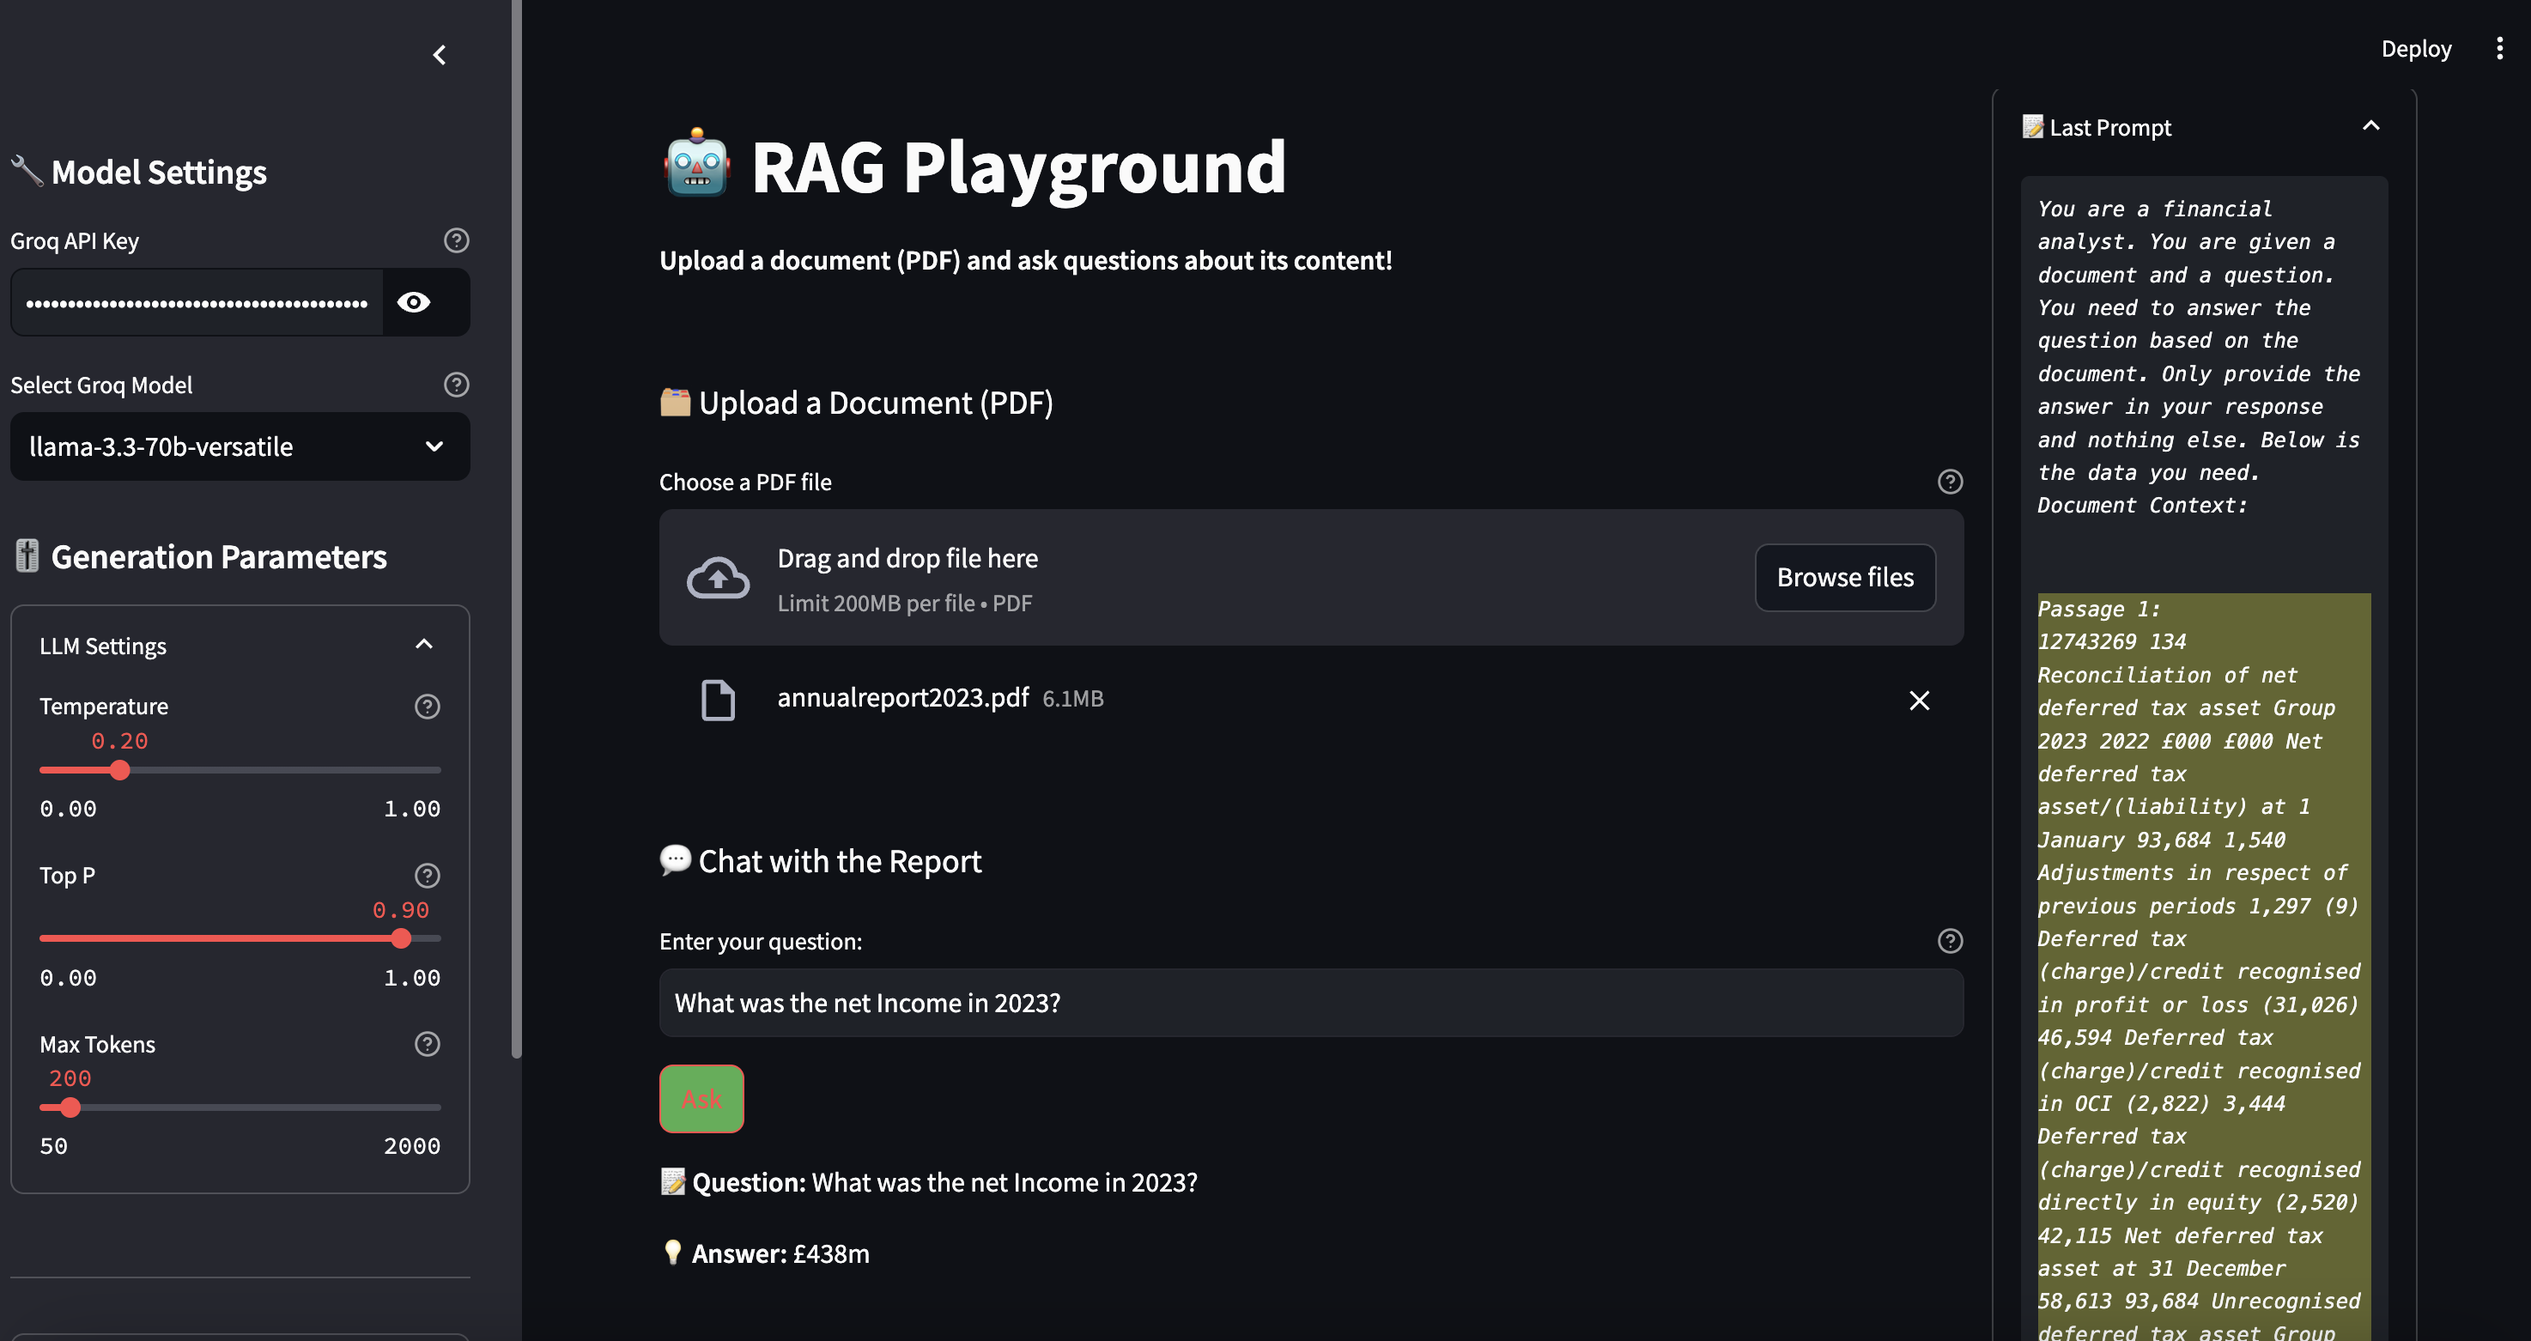
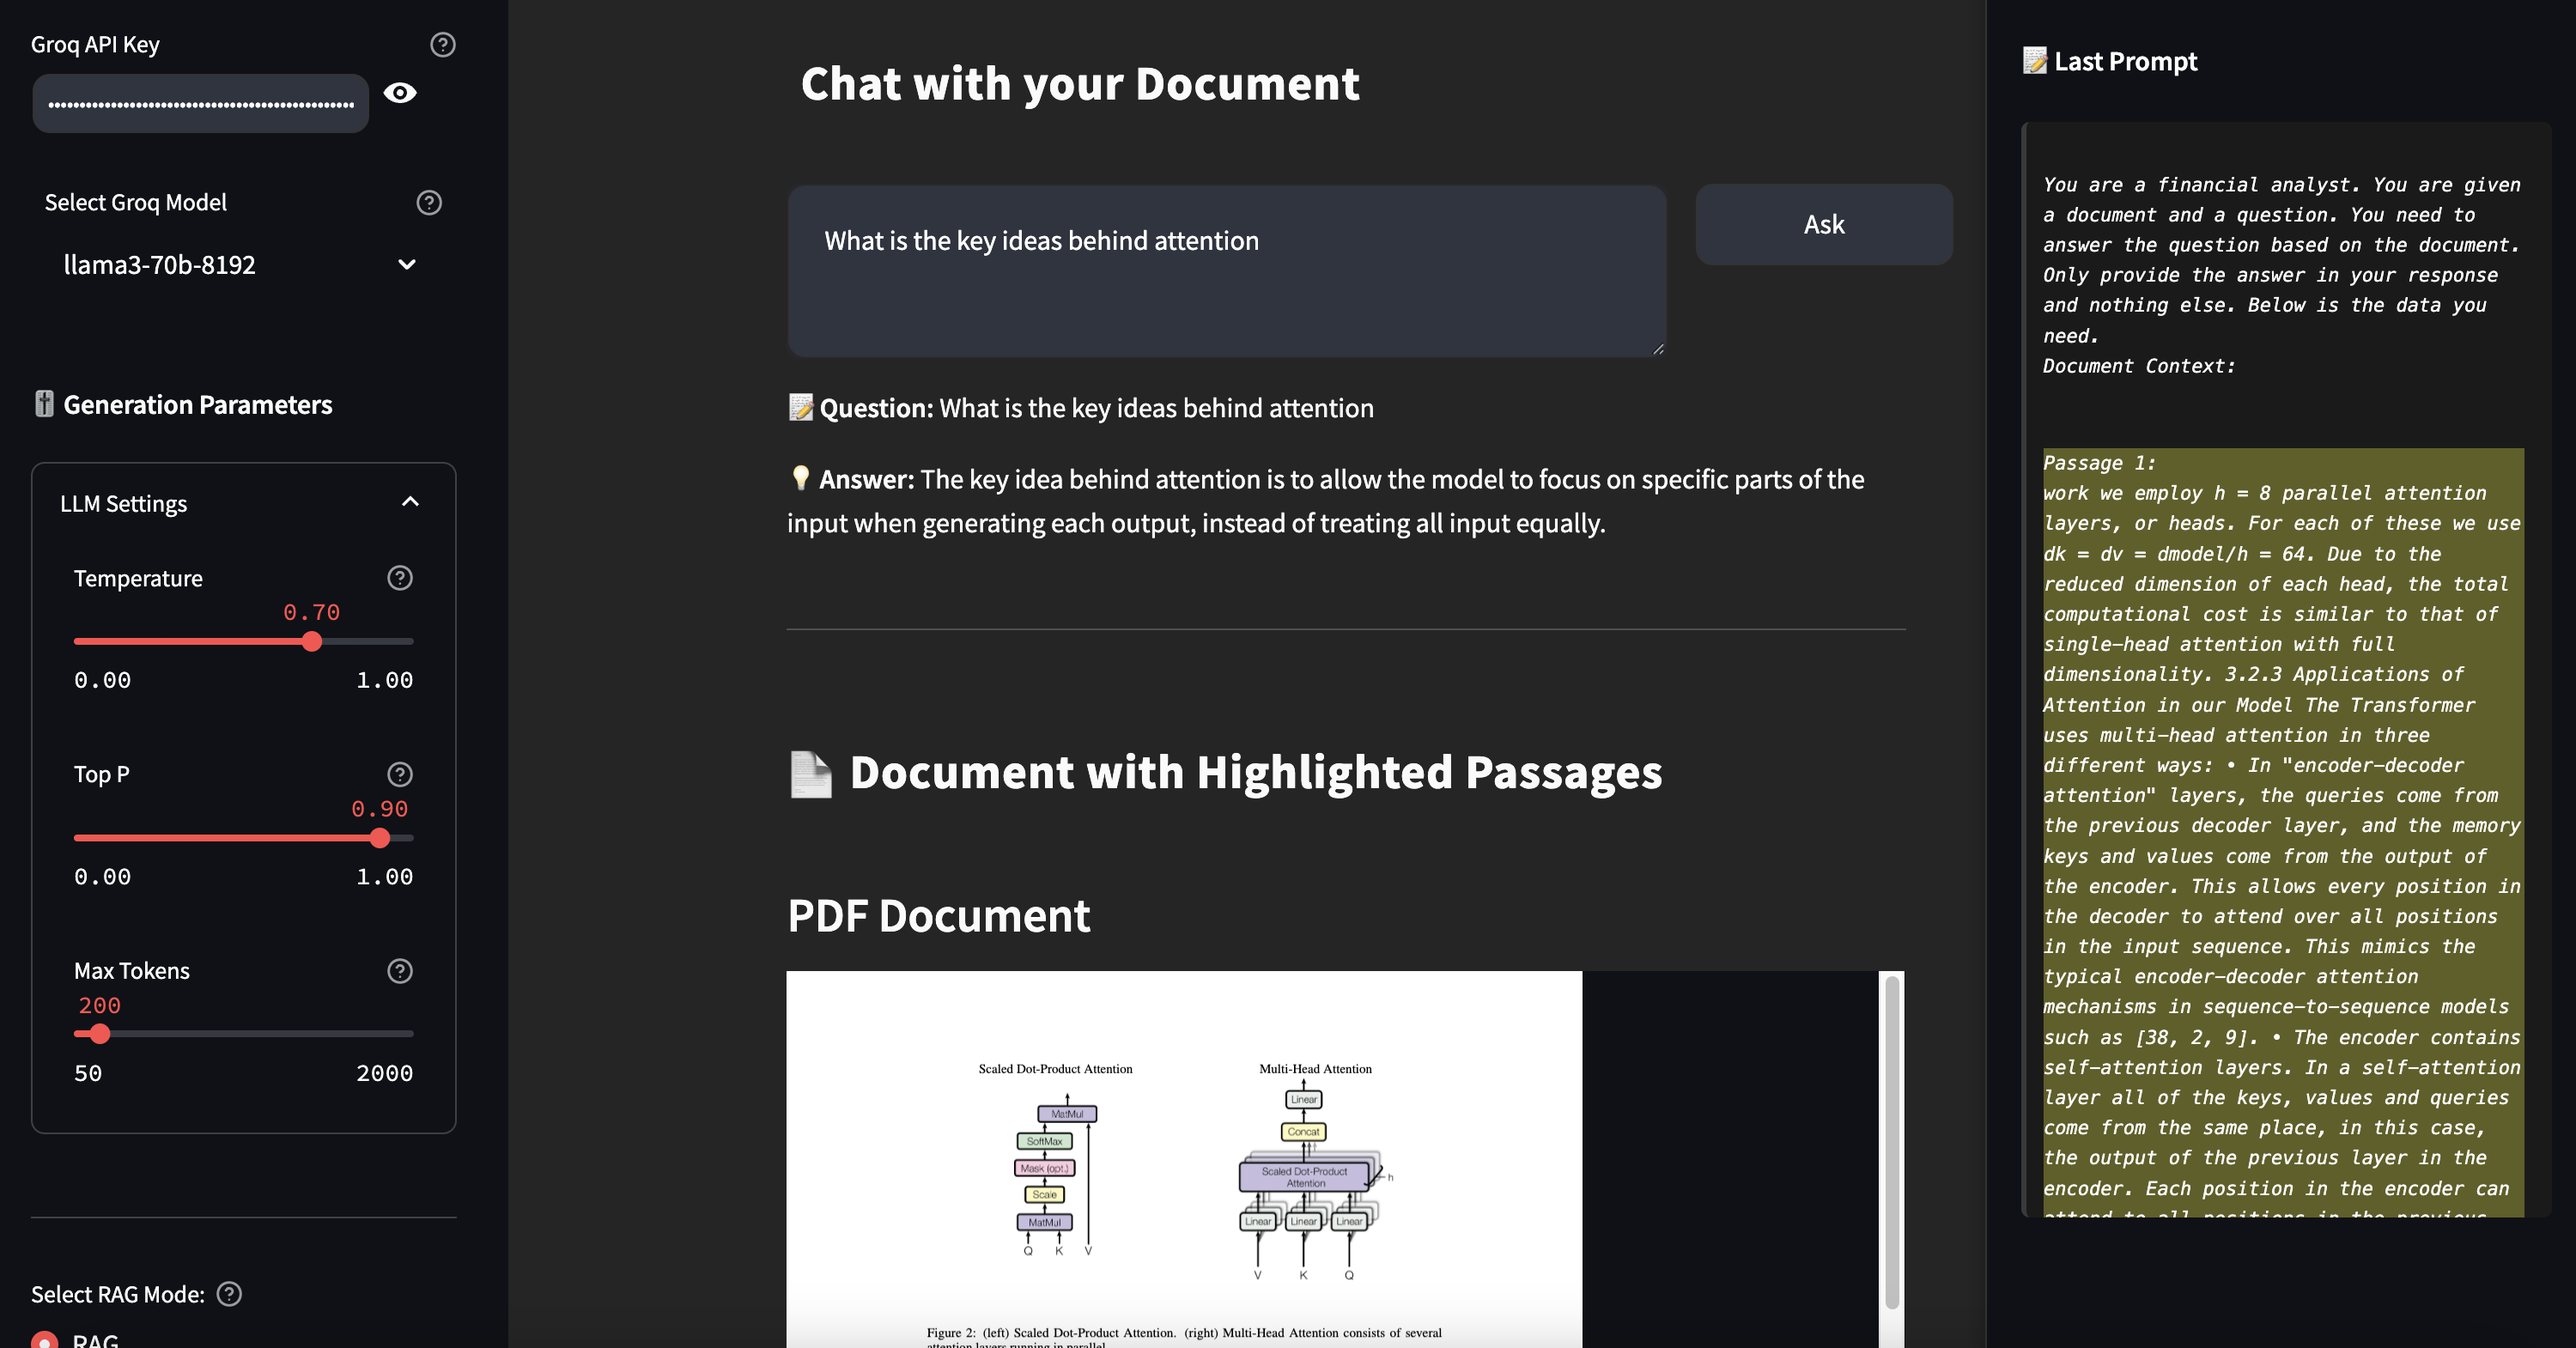
New UI

diff --git a/frontend/app.py b/frontend/app.py
@@ -102,9 +102,10 @@ st.markdown(
             font-style: italic;
         }
         .section-header {
-            font-size: 1.2em;
+            font-size: 1.8em;
             margin-top: 2em;
             margin-bottom: 1em;
+            font-weight: 600;
         }
         .debug-header {
             font-size: 1em;
@@ -185,6 +186,169 @@ st.markdown(
         /* Adjust top padding to account for hidden header */
         .main .block-container {
             padding-top: 1rem !important;
+        }
+        
+        /* Custom styling for the question input field - bigger, rounded, black */
+        [data-testid="stTextInput"] > div > div > input,
+        [data-testid="stTextArea"] > div > div > textarea {
+            background-color: var(--gray-700, #2e3440) !important;
+            color: white !important;
+            font-size: 16px !important;
+            border-radius: 10px !important;
+            border: 1px solid #333 !important;
+            padding: 20px !important;
+            min-height: 70px !important;
+            width: 100% !important;
+        }
+        
+        /* Make the text start at the top of the input box rather than middle */
+        [data-testid="stTextInput"] > div > div,
+        [data-testid="stTextArea"] > div > div {
+            align-items: flex-start !important;
+        }
+        
+        /* Custom styling for the Ask button - gray and wider */
+        .stButton > button {
+            background-color: var(--gray-700, #2e3440) !important;
+            color: white !important;
+            border: 1px solid #333 !important;
+            border-radius: 10px !important;
+            font-size: 16px !important;
+            font-weight: bold !important;
+            min-width: 150px !important;
+            padding: 10px 20px !important;
+            transition: all 0.3s ease !important;
+        }
+        
+        /* Hover effect for the Ask button */
+        .stButton > button:hover {
+            background-color: #252525 !important;
+            border-color: #555 !important;
+        }
+        
+        /* Specific style for the chat header */
+        .chat-header {
+            font-size: 28px;
+            margin-top: 1em;
+            margin-bottom: 1.2em;
+            font-weight: 700;
+            letter-spacing: 0.5px;
+        }
+        
+        /* Style for emoji in headers to align with text */
+        .header-emoji {
+            font-size: 28px;
+            vertical-align: middle;
+            margin-right: 8px;
+        }
+        
+        /* NEW: Reduce the size of sidebar elements */
+        [data-testid="stSidebar"] {
+            padding-top: 0.5rem !important;
+        }
+        
+        /* Make sidebar text smaller */
+        [data-testid="stSidebar"] .stMarkdown, 
+        [data-testid="stSidebar"] .stMarkdown p, 
+        [data-testid="stSidebar"] .stMarkdown h1, 
+        [data-testid="stSidebar"] .stMarkdown h2, 
+        [data-testid="stSidebar"] .stMarkdown h3 {
+            font-size: 14px !important;
+        }
+        
+        /* Make sidebar section headers smaller */
+        [data-testid="stSidebar"] .section-header {
+            font-size: 16px !important;
+            margin-top: 1em !important;
+            margin-bottom: 0.5em !important;
+        }
+        
+        /* Make sidebar input fields and buttons smaller */
+        [data-testid="stSidebar"] [data-testid="stTextInput"] > div > div > input,
+        [data-testid="stSidebar"] .stButton > button,
+        [data-testid="stSidebar"] [data-testid="stSelectbox"],
+        [data-testid="stSidebar"] .stSlider {
+            font-size: 12px !important;
+            padding: 8px !important;
+            min-height: auto !important;
+        }
+        
+        /* Reduce spacing between sidebar elements */
+        [data-testid="stSidebar"] > div > div > div > div > div {
+            margin-bottom: 0.5rem !important;
+        }
+        
+        /* Make sidebar headers smaller */
+        [data-testid="stSidebar"] h1, 
+        [data-testid="stSidebar"] h2, 
+        [data-testid="stSidebar"] h3, 
+        [data-testid="stSidebar"] h4 {
+            font-size: 16px !important;
+            margin-top: 0.75em !important;
+            margin-bottom: 0.5em !important;
+        }
+        
+        /* Adjust sidebar header emoji */
+        [data-testid="stSidebar"] .header-emoji {
+            font-size: 16px !important;
+        }
+        
+        /* Fix right sidebar positioning to prevent overlap */
+        .row-widget > [data-testid="column"]:nth-child(2) {
+            padding-left: 15px !important;
+            margin-left: 10px !important;
+        }
+        
+        /* Last Prompt section in right sidebar - better positioning */
+        [data-testid="column"] > div > [data-testid="stExpander"] {
+            margin-left: 15px !important;
+            max-width: 95% !important;
+            float: right !important;
+        }
+        
+        /* NEW: Extreme right sidebar positioning */
+        /* Create a fixed position right sidebar */
+        .rightmost-sidebar {
+            position: fixed !important;
+            top: 0 !important;
+            right: 0 !important;
+            width: 350px !important;
+            height: 100vh !important;
+            background-color: #0e1117 !important;
+            padding: 20px !important;
+            z-index: 999 !important;
+            overflow-y: auto !important;
+            box-shadow: -3px 0 10px rgba(0,0,0,0.2) !important;
+            border-left: 1px solid #333 !important;
+        }
+        
+        /* Style for prompt box in extreme right sidebar */
+        .rightmost-sidebar .prompt-box {
+            background-color: #1a1a1a !important;
+            border-radius: 5px !important;
+            padding: 10px !important;
+            margin-top: 10px !important;
+            border-left: 3px solid #3a3a3a !important;
+            font-size: 11px !important;
+            max-height: 80vh !important;
+            overflow-y: auto !important;
+        }
+        
+        /* Style for the expander in extreme right sidebar */
+        .rightmost-sidebar .st-expander {
+            border: none !important;
+            background-color: transparent !important;
+        }
+        
+        /* Adjust the main content area to make room for the extreme right sidebar */
+        [data-testid="column"]:nth-child(1) {
+            margin-right: 350px !important;
+            width: calc(100% - 350px) !important;
+        }
+        
+        /* Hide the original right sidebar column */
+        [data-testid="column"]:nth-child(2) {
+            display: none !important;
         }
     </style>
     """,
@@ -411,13 +575,22 @@ with main_col:
 
     # Chat-Style Q&A Section
     st.markdown(
-        '<div class="section-header">💬 Chat with the Report</div>',
+        '<div class="chat-header"><span class="header-emoji"></span>Chat with your Document</div>',
         unsafe_allow_html=True,
     )
-    query = st.text_input(
-        "Enter your question:", help="Type your question about the uploaded document"
-    )
-    submit_button = st.button("Ask")
+    
+    # Create a nice layout for the chat input and button
+    col1, col2 = st.columns([4, 1])
+    with col1:
+        query = st.text_area(
+            "Enter your question:", 
+            help="Type your question about the uploaded document",
+            placeholder="Ask a question about the document...",
+            label_visibility="collapsed",
+            height=100
+        )
+    with col2:
+        submit_button = st.button("Ask", use_container_width=True)
 
     if submit_button and query:
         if not st.session_state.session_id:
@@ -483,7 +656,7 @@ with main_col:
     # Add PDF viewer below chat history
     if uploaded_file and st.session_state.session_id:
         st.markdown(
-            '<div class="section-header">📄 Document with Highlighted Passages</div>',
+            '<div class="chat-header"><span class="header-emoji">📄</span>Document with Highlighted Passages</div>',
             unsafe_allow_html=True,
         )
 
@@ -685,35 +858,35 @@ with main_col:
             mime="application/pdf",
         )
 
-# Right Sidebar
+# Remove the custom div approach and use pure HTML/JavaScript injection to create the extreme right sidebar
+right_sidebar_html = """
+<div class="rightmost-sidebar">
+    <h4 style="color: white; font-size: 16px; margin-bottom: 10px;">📝 Last Prompt</h4>
+    <div class="prompt-box">
+"""
+
+# Add the prompt sections to the HTML if available
+if st.session_state.last_prompt_sections:
+    for i, section in enumerate(st.session_state.last_prompt_sections):
+        if i == 0:  # System prompt
+            right_sidebar_html += f'<div class="prompt-section">{section}</div>'
+        elif i < len(st.session_state.last_prompt_sections) - 1:  # Passages
+            highlight_class = f"highlight-{i}" if i <= 5 else "highlight-1"
+            right_sidebar_html += f'<div class="prompt-section {highlight_class}">{section}</div>'
+        else:  # Question and answer
+            right_sidebar_html += f'<div class="prompt-section">{section}</div>'
+else:
+    right_sidebar_html += '<div class="prompt-section">No prompt available yet. Ask a question to see the prompt here.</div>'
+
+# Close the rightmost sidebar HTML
+right_sidebar_html += """
+    </div>
+</div>
+"""
+
+# Inject the rightmost sidebar HTML directly
+st.markdown(right_sidebar_html, unsafe_allow_html=True)
+
+# Empty the original right_sidebar column to prevent duplicate content
 with right_sidebar:
-    # st.markdown('<div class="debug-header">🔍 Debug Information</div>', unsafe_allow_html=True)
-
-    # Add encryption debug info
-    # with st.expander("🔐 Encryption Debug", expanded=False):
-    #    st.write("Encryption Key Status:", "Available" if encryption_key else "Not Available")
-    #    if "encryption_key" in st.session_state:
-    #        # Only show first few characters for security
-    #        st.write("Key (first 5 chars):", st.session_state["encryption_key"][:5] + "...")
-    #
-    #    if "last_encrypted" in st.session_state:
-    #        # Only show first few characters for security
-    #        st.write("Last encrypted value (first 10 chars):", st.session_state["last_encrypted"][:10] + "...")
-
-    # Show the most recent prompt sections if available
-    if st.session_state.last_prompt_sections:
-        with st.expander("📝 Last Prompt", expanded=True):
-            prompt_html = ""
-            for i, section in enumerate(st.session_state.last_prompt_sections):
-                if i == 0:  # System prompt
-                    prompt_html += f'<div class="prompt-section">{section}</div>'
-                elif i < len(st.session_state.last_prompt_sections) - 1:  # Passages
-                    highlight_class = f"highlight-{i}" if i <= 5 else "highlight-1"
-                    prompt_html += (
-                        f'<div class="prompt-section {highlight_class}">{section}</div>'
-                    )
-                else:  # Question and answer
-                    prompt_html += f'<div class="prompt-section">{section}</div>'
-            st.markdown(
-                f'<div class="prompt-box">{prompt_html}</div>', unsafe_allow_html=True
-            )
+    pass
